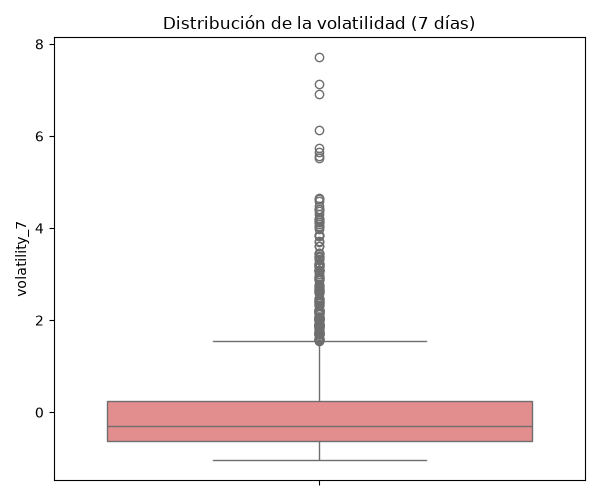
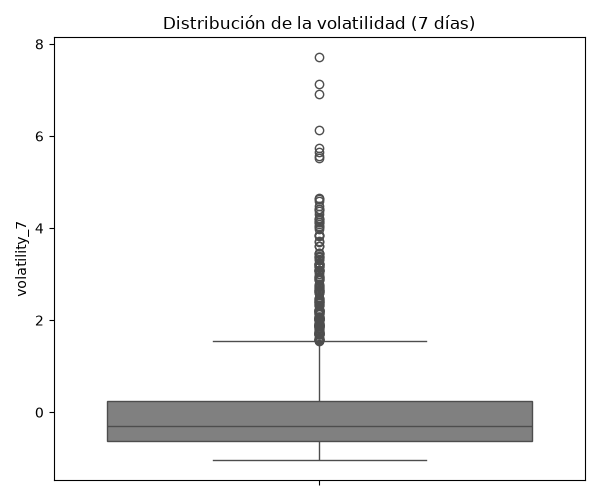
Clean up code and reorganize notebook execution
Reorganize notebook cell execution order and simplify code formatting. Remove redundant comments and documentation strings from Python modules. Move infrastructure documentation to docs folder. Update visualization outputs and minor code improvements including removal of requirement documentation and simplification of docstrings.

Changed region(s): [[0.18, 0.78, 0.9, 0.93], [0.51, 0.39, 0.54, 0.69], [0.51, 0.3, 0.54, 0.33]]

diff --git a/src/preprocessing.py b/src/preprocessing.py
@@ -1,6 +1,6 @@
 """
+Abel Quezada
 Preprocesamiento del dataset histórico de META para el modelo de regresión.
-Requiere: pip install pandas numpy scikit-learn
 """
 
 import joblib
@@ -9,39 +9,27 @@ import pandas as pd
 import numpy as np
 from sklearn.preprocessing import StandardScaler
 
-# 1. Cargar el dataset crudo
 df = pd.read_csv("DATA/raw/meta_historico.csv")
 
-# Asegurar orden cronológico (importante: nunca mezclar el orden en series de tiempo)
 df["timestamp"] = pd.to_datetime(df["timestamp"])
 df = df.sort_values("timestamp").reset_index(drop=True)
 
-# 2. Limpieza de datos nulos/erróneos
 print(f"Nulos antes de limpiar:\n{df.isnull().sum()}")
 df = df.dropna().reset_index(drop=True)
 
 
-# Retorno diario (variación porcentual del precio de cierre)
 df["daily_return"] = df["close"].pct_change()
-
-# Medias móviles (tendencia de corto y mediano plazo)
 df["sma_7"] = df["close"].rolling(window=7).mean()
 
-# Volatilidad (desviación estándar móvil de 7 días)
 df["volatility_7"] = df["close"].rolling(window=7).std()
-
-# Rango diario (high - low), mide cuánto se movió el precio en el día
 df["daily_range"] = df["high"] - df["low"]
 
-# Volumen relativo (compara el volumen del día contra su media de 7 días)
 df["volume_change"] = df["volume"].pct_change()
-
 df["target_close_next"] = df["close"].shift(-1)
 
 
 df = df.dropna().reset_index(drop=True)
 
-# 6. Seleccionar features finales (mínimo 6 requeridas por el proyecto)
 
 features = [
     "close",
@@ -65,12 +53,11 @@ scaler = StandardScaler()
 X_scaled = scaler.fit_transform(X)
 X_scaled = pd.DataFrame(X_scaled, columns=features)
 
-# 8. Guardar dataset procesado
 processed_df = X_scaled.copy()
 processed_df["target_close_next"] = y.reset_index(drop=True)
 processed_df.to_csv("DATA/processed/meta_procesado.csv", index=False)
 
-print("Guardado en data/processed/meta_procesado.csv")
+print("Guardado en DATA/processed/meta_procesado.csv")
 
 
 os.makedirs("models", exist_ok=True)

diff --git a/src/predict.py b/src/predict.py
@@ -2,8 +2,6 @@
 Módulo de predicción: carga un .csv con nuevos datos históricos de META,
 aplica el mismo pipeline de preprocesamiento y genera la predicción del
 precio de cierre del día siguiente usando el modelo Lasso ya entrenado.
-
-Requiere: pip install pandas numpy scikit-learn joblib
 """
 
 import argparse
@@ -23,11 +21,7 @@ FEATURES = [
 
 
 def preparar_datos(df: pd.DataFrame) -> pd.DataFrame:
-    """
-    Aplica exactamente las mismas transformaciones que preprocessing.py
-    para que los datos nuevos queden en el mismo formato que vio el modelo
-    durante el entrenamiento.
-    """
+
     df = df.copy()
     df["timestamp"] = pd.to_datetime(df["timestamp"])
     df = df.sort_values("timestamp").reset_index(drop=True)
@@ -38,18 +32,15 @@ def preparar_datos(df: pd.DataFrame) -> pd.DataFrame:
     df["daily_range"] = df["high"] - df["low"]
     df["volume_change"] = df["volume"].pct_change()
 
-    # Elimina filas iniciales sin suficiente historial para sma_7/volatility_7
     df = df.dropna().reset_index(drop=True)
 
     return df
 
 
 def predecir(csv_path: str):
-    # 1. Cargar el modelo y el scaler ya entrenados
     modelo = joblib.load("models/modelo_final.pkl")
     scaler = joblib.load("models/scaler.pkl")
 
-    # 2. Cargar y preparar los datos nuevos
     df_nuevo = pd.read_csv(csv_path)
     df_procesado = preparar_datos(df_nuevo)
 
@@ -61,10 +52,8 @@ def predecir(csv_path: str):
 
     X_nuevo = df_procesado[FEATURES]
 
-    # 3. Escalar con el MISMO scaler del entrenamiento (no crear uno nuevo)
     X_nuevo_scaled = scaler.transform(X_nuevo)
 
-    # 4. Predecir
     predicciones = modelo.predict(X_nuevo_scaled)
 
     df_resultado = df_procesado[["timestamp", "close"]].copy()

diff --git a/src/data_collection.py b/src/data_collection.py
@@ -1,7 +1,6 @@
 """
 data_collection.py
 Obtención de datos históricos de META usando la API de Alpaca.
-Requiere: pip install alpaca-py pandas
 """
 
 import pandas as pd